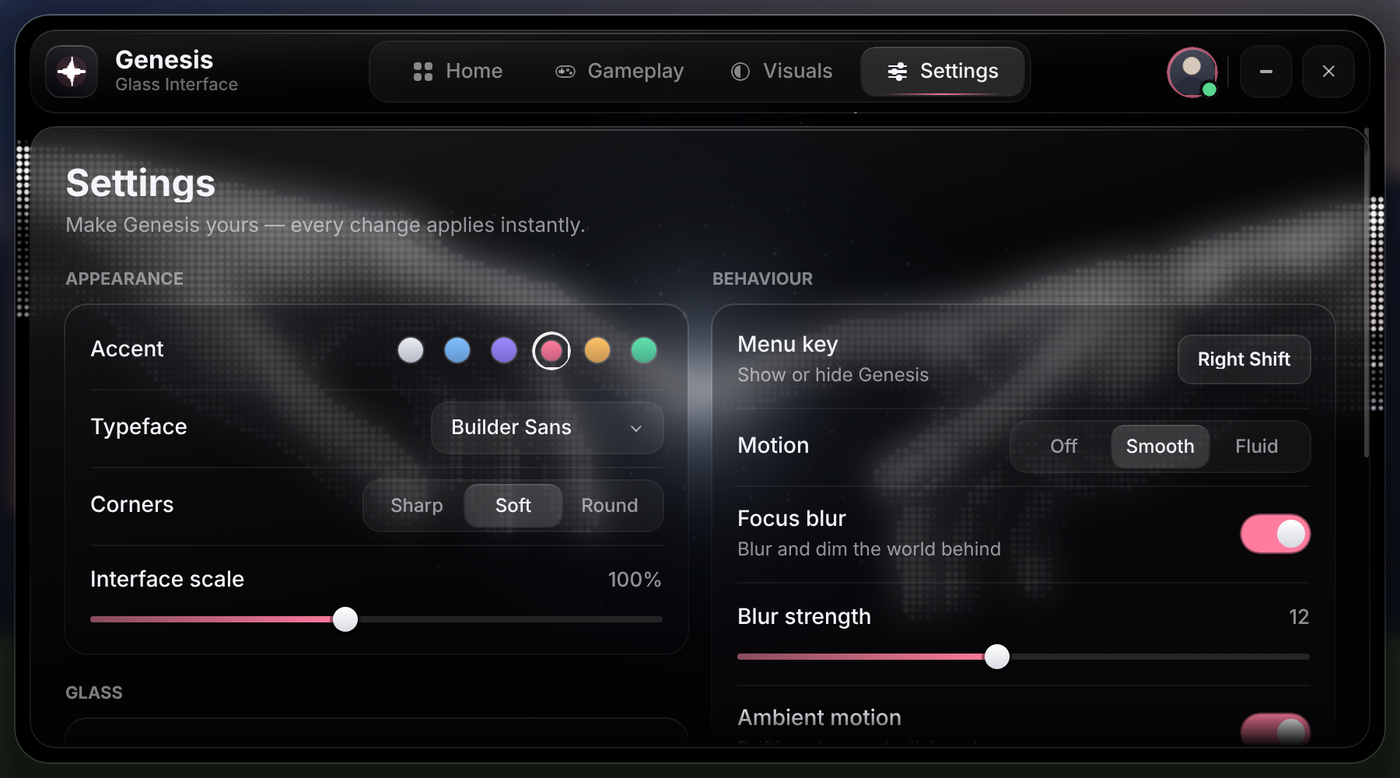
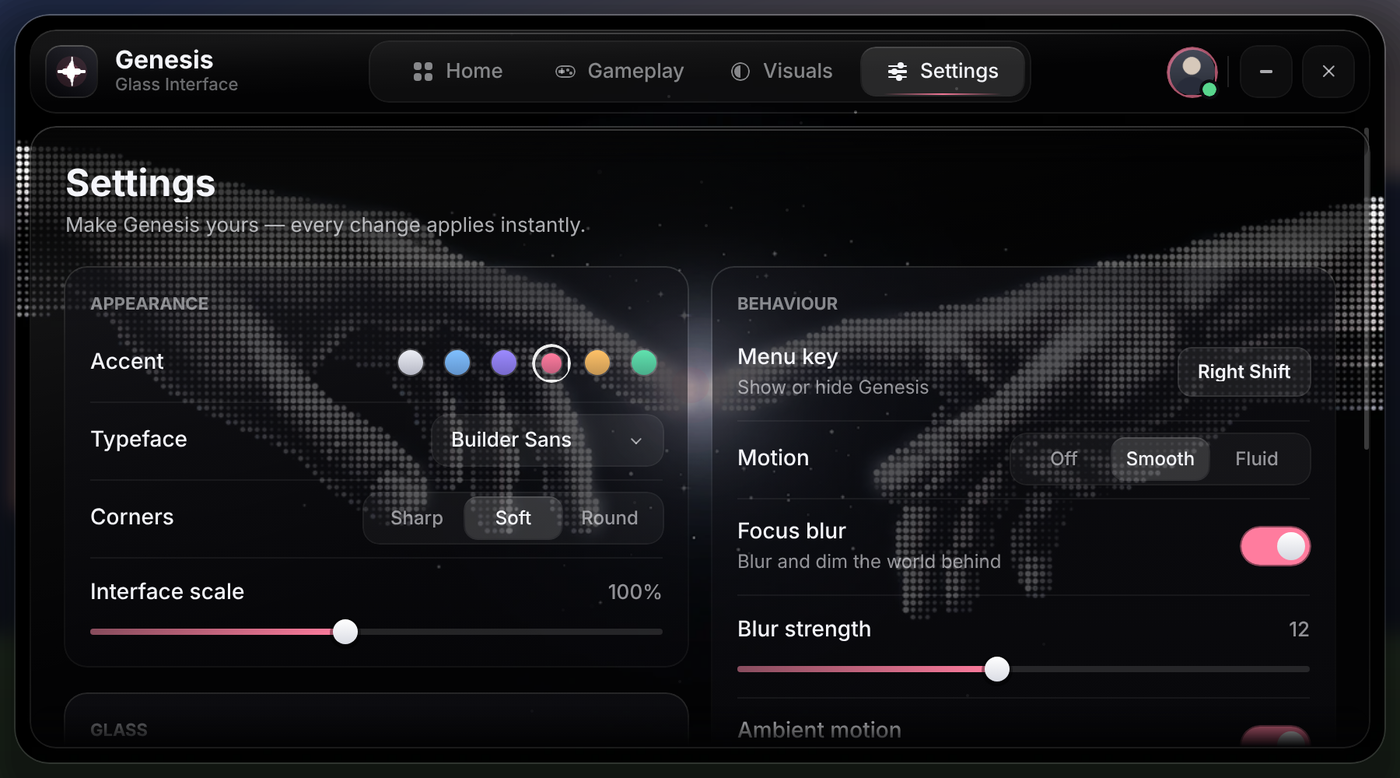
Show the artwork crisp behind the glass
Frost now defaults to off, so the hands show through every pane sharp
instead of blurred. The world behind the menu is still blurred by
Focus blur. The frosted copy stays available through the Frost setting
and is hidden entirely while it is at 0.

To keep text legible over the sharp halftone, section titles moved
inside their cards, cards use slightly darker glass, and the content
panel has a soft shade behind the page title.

Claude-Session: https://claude.ai/code/session_012ZAMGQbHCwexeKAoAEW9XP

diff --git a/README.md b/README.md
@@ -1,6 +1,6 @@
 # Genesis — Glass Interface for Roblox
 
-A black, frosted-glass menu for Roblox experiences, built over the *Creation* artwork. Every pane is real glass: it shows the exact slice of artwork sitting behind it, frosted, tinted and lit along its rim, so the image stays visible through the whole interface.
+A black glass menu for Roblox experiences, built over the *Creation* artwork. The artwork fills the window and shows through every pane crisp and sharp. The glass tints it, lights its edges and keeps text readable, without hiding the image.
 
 ![Genesis home page](docs/preview-home.png)
 
@@ -16,16 +16,16 @@ A black, frosted-glass menu for Roblox experiences, built over the *Creation* ar
 - **Visuals**: bloom, sun rays, depth of field, colour tone presets, saturation, contrast and time of day, all applied on the player's screen only.
 - **Settings**: the full config for the menu itself (see below), with cloud save.
 - **Polish**: drifting stars and a breathing glow at the touch point, scroll edges that dissolve into the glass, spring-eased toggles and sliders, toasts, a dock pill to reopen the menu, and a fade-and-scale open animation that keeps the window pixel-sharp at rest.
-- No third-party assets. Icons, shadows and glows are drawn from frames, so the only uploads are your two artwork images.
+- No third-party assets. Icons, shadows and glows are drawn from frames, so the only upload is your artwork, plus an optional frosted copy.
 
 ## Setup in Studio
 
-1. **Upload the artwork.** Upload `assets/background.png` and `assets/background-frost.png` as **Images**: Creator Dashboard → Development Items → Images, or Studio → View → Asset Manager → Import. Upload them unchanged (1024 × 558).
+1. **Upload the artwork.** Upload `assets/background.png` as an **Image**: Creator Dashboard → Development Items → Images, or Studio → View → Asset Manager → Import. Upload it unchanged (1024 × 558). `assets/background-frost.png` is optional. It's only used if you turn the Frost setting up.
 2. **Add the menu.** In `StarterPlayer › StarterPlayerScripts`, create a **LocalScript** named `Genesis` and paste in `src/client/Genesis.client.lua`.
-3. **Point it at your images.** At the top of the script, set the two ids:
+3. **Point it at your image.** At the top of the script, set the id:
    ```lua
    Artwork = "rbxassetid://YOUR_BACKGROUND_ID",
-   ArtworkFrost = "rbxassetid://YOUR_FROST_ID",
+   ArtworkFrost = "rbxassetid://YOUR_FROST_ID", -- optional
    ```
    Use the *image* id. If you uploaded a Decal, drop it into an ImageLabel and copy the `Image` property, which is the image id.
 4. **Optional: save settings between visits.** In `ServerScriptService`, create a **Script** named `GenesisConfig` and paste in `src/server/GenesisConfig.server.lua`. To test saving in Studio, publish the place and turn on Game Settings → Security → **Enable Studio Access to API Services**. Without this script the menu still works, and settings last for the session.
@@ -57,7 +57,7 @@ rojo build -o Genesis.rbxl   # or: rojo serve
 | | Corners | Sharp, Soft or Round radius for every pane and control |
 | | Interface scale | 80–125 %. The window always fits the screen and the top bar |
 | Glass | Glass opacity | Strength of the black tint |
-| | Frost | How frosted the artwork looks through the glass. 0 % is crystal clear |
+| | Frost | Off by default, so the artwork stays crisp. Raise it to frost the art behind the glass (needs the frost image) |
 | | Artwork brightness | Dims the artwork behind everything |
 | | Edge light | Rim light and specular line on every pane |
 | Behaviour | Menu key | Click, then press any key. Esc cancels |
@@ -92,13 +92,15 @@ Available controls: `toggle`, `slider`, `dropdown`, `segmented`, `swatches`, `ke
 
 ## How the glass works
 
-The window shows the artwork with `ScaleType.Crop`. Each glass pane holds its own copy of the pre-frosted artwork and, whenever the pane moves or resizes, sets `ImageRectOffset`/`ImageRectSize` to the exact rectangle of artwork behind it. The frost lines up with the image underneath while you drag, scroll, collapse or animate. A black tint, a diagonal sheen, a rim-lit `UIStroke` and a one-pixel specular line finish the pane.
+The window shows the artwork with `ScaleType.Crop`. Each pane on top is a black tint, a diagonal sheen, a rim-lit `UIStroke` and a one-pixel specular line, so the art shows through sharp. A soft shade behind the page title and darker card glass under small text keep everything legible over the halftone.
+
+When Frost is raised, each pane also shows a pre-frosted copy of the artwork. That copy is cropped with `ImageRectOffset`/`ImageRectSize` to the exact rectangle behind the pane, and recropped whenever the pane moves, so the frost lines up with the image while you drag, scroll or animate.
 
 Scroll edges dissolve because a strip of identical glass sits over each end of the content, inside a `CanvasGroup` faded with a `UIGradient`. The window and incoming pages pass through a `CanvasGroup` only while they animate, then return to normal frames, so text stays crisp at rest.
 
 ## Verification
 
-Both scripts were run headless against a simulated Roblox client, built on [Lune](https://github.com/lune-org/lune). That client checks every class, property, value type and enum against Roblox's API reflection database, and lays out and renders the interface for review. 25 interaction checks pass: slider drags, key capture, dropdown picks, corner styles, accent changes, window drag, close/dock/reopen, hold-to-zoom, crosshair, performance chip, reset and Motion Off. 17 server checks pass: shared loads, throttled newest-wins saves, payload validation, flushing on leave and shutdown, and graceful handling when the DataStore is unavailable. Both files lint clean with Selene and are formatted with StyLua.
+Both scripts were run headless against a simulated Roblox client, built on [Lune](https://github.com/lune-org/lune). That client checks every class, property, value type and enum against Roblox's API reflection database, and lays out and renders the interface for review. 28 interaction checks pass: slider drags, frost on and off, key capture, dropdown picks, corner styles, accent changes, window drag, close/dock/reopen, hold-to-zoom, crosshair, performance chip, reset and Motion Off. 17 server checks pass: shared loads, throttled newest-wins saves, payload validation, flushing on leave and shutdown, and graceful handling when the DataStore is unavailable. Both files lint clean with Selene and are formatted with StyLua.
 
 The previews above are renders of that simulated client. Inter stands in for Roblox's Builder Sans, and the world behind the window is a placeholder. The scripts have not yet been run inside Roblox Studio itself.
 
@@ -106,7 +108,7 @@ The previews above are renders of that simulated client. Inter stands in for Rob
 
 ```
 assets/background.png          artwork shown behind the glass (upload as an Image)
-assets/background-frost.png    pre-frosted copy used inside the panes (upload as an Image)
+assets/background-frost.png    optional pre-frosted copy for the Frost setting
 src/client/Genesis.client.lua  the menu (LocalScript → StarterPlayerScripts)
 src/server/GenesisConfig.server.lua  optional cloud save (Script → ServerScriptService)
 default.project.json           Rojo project
